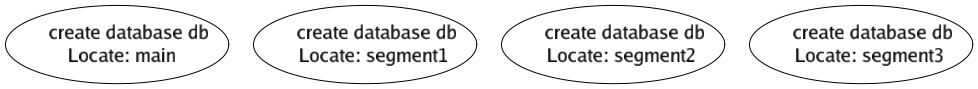
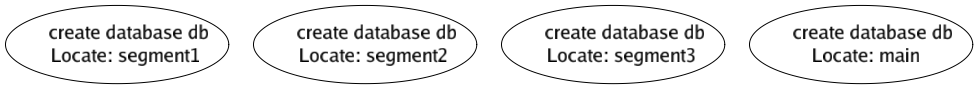
feat:create db/use db/create table

diff --git a/parser/parse.go b/parser/parse.go
@@ -1329,14 +1329,9 @@ func (logicalPlanTree *PlanTree) buildDelete(sel *sqlparser.Delete) {
 	}
 }
 
-func GetSiteNames() []string {
-	sites := []string{"main", "segment1", "segment2", "segment3"}
-	return sites
-}
-
 func (logicalPlanTree *PlanTree) buildDatabase(sel *sqlparser.DBDDL) {
 	DBName := sel.DBName
-	sites := GetSiteNames()
+	sites := storage.GetAllServerNames()
 	for i, site := range sites {
 		id := logicalPlanTree.AddSingleNode(CreateDBNode(DBName, site))
 		if i == 0 {
@@ -1347,7 +1342,7 @@ func (logicalPlanTree *PlanTree) buildDatabase(sel *sqlparser.DBDDL) {
 
 func (logicalPlanTree *PlanTree) buildUse(sel *sqlparser.Use) {
 	DBName := sqlparser.String(sel.DBName)
-	sites := GetSiteNames()
+	sites := storage.GetAllServerNames()
 	for i, site := range sites {
 		id := logicalPlanTree.AddSingleNode(CreateUseNode(DBName, site))
 		if i == 0 {
@@ -1356,62 +1351,6 @@ func (logicalPlanTree *PlanTree) buildUse(sel *sqlparser.Use) {
 	}
 }
 
-//	type DDL struct {
-//		Action        string
-//		Table         TableName
-//		NewName       TableName
-//		IfExists      bool
-//		TableSpec     *TableSpec
-//		PartitionSpec *PartitionSpec
-//		VindexSpec    *VindexSpec
-//		VindexCols    []ColIdent
-//	}
-// type PartitionSpec struct {
-// 	Action      string
-// 	Name        ColIdent
-// 	Definitions []*PartitionDefinition
-// }
-// type PartitionDefinition struct {
-// 	Name     ColIdent
-// 	Limit    Expr
-// 	Maxvalue bool
-// }
-// type TableSpec struct {
-// 	Columns []*ColumnDefinition
-// 	Indexes []*IndexDefinition
-// 	Options string
-// }
-// type ColumnDefinition struct {
-// 	Name ColIdent
-// 	Type ColumnType
-// }
-// type ColumnType struct {
-// 	// The base type string
-// 	Type string
-
-// 	// Generic field options.
-// 	NotNull       BoolVal
-// 	Autoincrement BoolVal
-// 	Default       *SQLVal
-// 	OnUpdate      *SQLVal
-// 	Comment       *SQLVal
-
-// 	// Numeric field options
-// 	Length   *SQLVal
-// 	Unsigned BoolVal
-// 	Zerofill BoolVal
-// 	Scale    *SQLVal
-
-// 	// Text field options
-// 	Charset string
-// 	Collate string
-
-// 	// Enum values
-// 	EnumValues []string
-
-//		// Key specification
-//		KeyOpt ColumnKeyOption
-//	}
 func ConstructCreateTableStmt(tableName string, Columns []*sqlparser.ColumnDefinition) (string, []string) {
 	result := "create table " + tableName + " ("
 	var cols []string
@@ -1546,7 +1485,7 @@ func (logicalPlanTree *PlanTree) buildTable(sel *sqlparser.DDL, sql string) {
 		// create the same table on all sites
 		// fmt.Println("Creating on all sites")
 		createString, cols := ConstructCreateTableStmt(tableName, TableSpec.Columns)
-		sites := GetSiteNames()
+		sites := storage.GetAllServerNames()
 
 		var Tmeta storage.TableMeta
 		Tmeta.TableName = tableName
@@ -1568,19 +1507,6 @@ func (logicalPlanTree *PlanTree) buildTable(sel *sqlparser.DDL, sql string) {
 		// fmt.Println(logicalPlanTree.TableMeta)
 	}
 
-	// fmt.Println(tableName)
-	// fmt.Println(TableSpec)
-	// // for _, col := range TableSpec.Columns {
-	// // 	fmt.Println(col.Name)
-	// // 	fmt.Println(sqlparser.String(col))
-	// // }
-	// ConstructCreateTableStmt(tableName, TableSpec.Columns)
-
-	// fmt.Println(options)
-	// fmt.Println(sqlparser.String(PartitionSpec))
-	// fmt.Println(PartitionSpec.Action)
-	// fmt.Println(PartitionSpec.Name)
-	// fmt.Println(PartitionSpec.Definitions)
 }
 
 // TODO: support multiple queries at a time, return multiple PlanTrees
